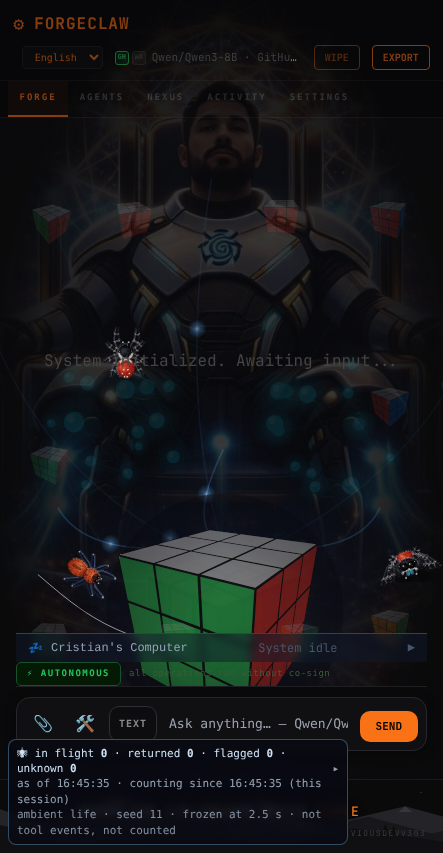
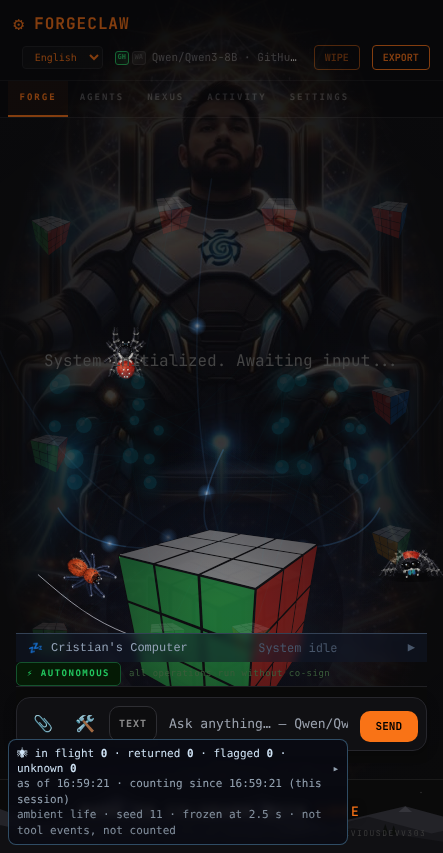
Spiderlings: head tilt, lean and crouch, like a real jumping spider (owner, 2026-11-04)
- The head turns on its own at the neck (body cache split: abdomen and cephalothorax drawn apart; palps turn with the head): it holds
  an angle and snaps to the next within ~90 ms (scanHead), forward while travelling. Both views.
- Lean: the weight shifts side to side (leanAt); near legs fold, far legs reach, feet stay planted (front view), body offset (top view).
- Crouch: a deep gather before every jump (the half second before takeoff), a watching crouch in about two of five stretches; outbound
  event spiders stalk crouched and scan with their heads in each freeze.
- All seeded and pure; +4 tests (snap scan, lean bounds both ways, pre-jump gather with head forward, watching crouch).
Browser 23/23 at both viewports; vitest 2586 passed / 0 failed; tsc 0. Pose sheet docs/spiderlings/v4-poses-head-lean-crouch.png.

Claude-Session: https://claude.ai/code/session_01XGcLrW98M2TRD6TJtMaNzi

diff --git a/src/components/spiderRender.ts b/src/components/spiderRender.ts
@@ -86,7 +86,7 @@ function furEllipse(b: Buckets, seed: number, cx: number, cy: number, rx: number
 }
 
 // ---- static body (cached) -------------------------------------------------------------------------------------------------------
-interface BodyCache { draw: (ctx: CanvasRenderingContext2D, glint: string) => void }
+interface BodyCache { draw: (ctx: CanvasRenderingContext2D, glint: string, headTurn: number) => void }
 const bodyCache = new Map<string, BodyCache>()
 
 /** Abdomen behind (−x), cephalothorax in front; both centred on the spider's own axis, size s = body length. */
@@ -96,11 +96,12 @@ function body(morph: Morph, s: number): BodyCache {
   const P = PAL[morph]
   const AX = -s * 0.5, ARX = s * 0.44, ARY = s * 0.34 // abdomen
   const CX = s * 0.16, CRX = s * 0.34, CRY = s * 0.3 // cephalothorax
-  const abdFur: Buckets = new Map(), cephFur: Buckets = new Map(), marks: Buckets = new Map(), rimFur: Buckets = new Map()
+  // abdomen and cephalothorax are kept apart so the head can turn on its own (a jumping spider's head tilt)
+  const abdFur: Buckets = new Map(), cephFur: Buckets = new Map(), marks: Buckets = new Map(), cephMarks: Buckets = new Map(), rimFur: Buckets = new Map(), cephRim: Buckets = new Map()
   furEllipse(abdFur, 11, AX, 0, ARX, ARY, s, 170, 0, P.abdHair, P.rim)
   furEllipse(rimFur, 13, AX, 0, ARX, ARY, s, 0, 70, P.abdHair, P.rim)
   furEllipse(cephFur, 21, CX, 0, CRX, CRY, s, 130, 0, P.cephHair, P.rim)
-  furEllipse(rimFur, 23, CX, 0, CRX, CRY, s, 0, 56, P.cephHair, P.rim)
+  furEllipse(cephRim, 23, CX, 0, CRX, CRY, s, 0, 56, P.cephHair, P.rim)
   const dense = Math.min(5, Math.max(1, s / 40))
   if (morph !== 'red') {
     // the fuzzy white band across the abdomen's front, and the white spots (each a tuft of strands)
@@ -121,10 +122,10 @@ function body(morph: Morph, s: number): BodyCache {
       const side = j % 2 ? 1 : -1, u = hh(51, j), a = side * (Math.PI * 0.55 + u * Math.PI * 0.35)
       const x = CX + Math.cos(a) * CRX * 0.9, y = Math.sin(a) * CRY * 0.9, len = s * (0.03 + hh(52, j) * 0.03)
       const d = a + Math.PI + (hh(53, j) - 0.5) * 0.7
-      strand(marks, css(P.mark, 0.88), x, y, Math.cos(d) * len, Math.sin(d) * len)
+      strand(cephMarks, css(P.mark, 0.88), x, y, Math.cos(d) * len, Math.sin(d) * len)
     }
   }
-  const draw = (ctx: CanvasRenderingContext2D, glint: string) => {
+  const draw = (ctx: CanvasRenderingContext2D, glint: string, headTurn: number) => {
     // abdomen: shaded round
     const ag = ctx.createRadialGradient(AX + s * 0.08, -s * 0.12, s * 0.03, AX, 0, ARX * 1.05)
     ag.addColorStop(0, css(P.abdHi)); ag.addColorStop(0.45, css(P.abd)); ag.addColorStop(1, css(P.abdLo))
@@ -137,6 +138,10 @@ function body(morph: Morph, s: number): BodyCache {
       for (const [sx, sy] of [[-0.56, -0.08], [-0.56, 0.08], [-0.72, -0.13], [-0.72, 0.13], [-0.85, -0.05], [-0.85, 0.05]] as const) { ctx.beginPath(); ctx.ellipse(s * sx, s * sy, s * 0.03, s * 0.022, 0, 0, Math.PI * 2); ctx.fill() }
     }
     strokeBuckets(ctx, abdFur, Math.max(0.35, s * 0.0045))
+    strokeBuckets(ctx, marks, Math.max(0.4, s * 0.0055))
+    strokeBuckets(ctx, rimFur, Math.max(0.35, s * 0.0045))
+    // the head turns on the pedicel, independent of the body
+    ctx.save(); const px = CX - CRX * 0.8; ctx.translate(px, 0); ctx.rotate(headTurn); ctx.translate(-px, 0)
     // cephalothorax: velvet, shaded
     const cg = ctx.createRadialGradient(CX + s * 0.05, -s * 0.1, s * 0.02, CX, 0, CRX * 1.05)
     cg.addColorStop(0, css(P.cephHi)); cg.addColorStop(0.5, css(P.ceph)); cg.addColorStop(1, css(P.cephLo))
@@ -147,8 +152,8 @@ function body(morph: Morph, s: number): BodyCache {
       ctx.beginPath(); ctx.ellipse(CX, 0, CRX * 0.86, CRY * 0.86, 0, Math.PI * 0.55, Math.PI * 1.45); ctx.stroke(); ctx.restore()
     }
     strokeBuckets(ctx, cephFur, Math.max(0.35, s * 0.0045))
-    strokeBuckets(ctx, marks, Math.max(0.4, s * 0.0055))
-    strokeBuckets(ctx, rimFur, Math.max(0.35, s * 0.0045))
+    strokeBuckets(ctx, cephMarks, Math.max(0.4, s * 0.0055))
+    strokeBuckets(ctx, cephRim, Math.max(0.35, s * 0.0045))
     // eyes along the front edge, seen from above: two big anterior medians, laterals at the corners, posteriors behind
     const eye = (ex: number, ey: number, r: number) => {
       const g = ctx.createRadialGradient(ex + r * 0.25, ey - r * 0.25, r * 0.05, ex, ey, r)
@@ -165,6 +170,7 @@ function body(morph: Morph, s: number): BodyCache {
       ig.addColorStop(0, 'rgb(34,96,170)'); ig.addColorStop(0.5, 'rgb(52,170,150)'); ig.addColorStop(1, 'rgb(36,74,170)')
       ctx.fillStyle = ig; ctx.globalAlpha *= 0.55; ctx.beginPath(); ctx.ellipse(CX + s * 0.33, -s * 0.045, s * 0.028, s * 0.024, 0, 0, Math.PI * 2); ctx.ellipse(CX + s * 0.33, s * 0.045, s * 0.028, s * 0.024, 0, 0, Math.PI * 2); ctx.fill(); ctx.globalAlpha /= 0.55
     }
+    ctx.restore()
   }
   const out = { draw }
   if (bodyCache.size > 64) bodyCache.clear()
@@ -226,6 +232,12 @@ export interface RenderLook {
   tilt?: number
   /** What it stands on: the contact shadow conforms (flat on the floor; offset and tight on a vertical face). */
   surface?: 'floor' | 'chair' | 'wall'
+  /** The head turned on its own, relative to the body (radians, small): the jumping spider's head tilt. */
+  headTurn?: number
+  /** Weight shifted to one side, -1..1: the legs on that side flex, the far side extends, the feet stay planted. */
+  lean?: number
+  /** 0..1: sunk low, legs gathered, knees high — before a jump, or watching. */
+  crouch?: number
 }
 /** A contact shadow that lies on the surface under it: a wide flat pool on the floor, a tight offset shape on a vertical face. */
 function contactShadow(ctx: CanvasRenderingContext2D, s: number, surface: RenderLook['surface'], cx: number, cy: number) {
@@ -243,7 +255,8 @@ function contactShadow(ctx: CanvasRenderingContext2D, s: number, surface: Render
  */
 export function renderJumperTop(ctx: CanvasRenderingContext2D, s: number, look: RenderLook) {
   const morph = look.morph ?? 'carneus', P = PAL[morph]
-  const pitch = look.pitch ?? 0, squash = look.squash ?? 0
+  const pitch = look.pitch ?? 0, squash = look.squash ?? 0, lean = look.lean ?? 0, crouch = look.crouch ?? 0, headTurn = look.headTurn ?? 0
+  const shift = lean * s * 0.13 // the body's weight moves toward the side it leans to
   contactShadow(ctx, s, look.surface, -s * 0.15, s * 0.05)
   ctx.save()
   // climbing: foreshortened along its length; landing: squashed flat and wide; breathing: the faintest swell
@@ -253,10 +266,12 @@ export function renderJumperTop(ctx: CanvasRenderingContext2D, s: number, look: 
   // legs, rear pair first so the front pair sits on top
   for (const i of [3, 2, 1, 0]) for (const side of [-1, 1]) {
     const phase = look.moving ? Math.sin(look.gait * 1.6 + (i % 2 ? Math.PI : 0) + (side > 0 ? Math.PI : 0)) : 0
-    const rootX = s * [0.28, 0.17, 0.06, -0.04][i], rootY = side * s * 0.2
+    const rootX = s * [0.28, 0.17, 0.06, -0.04][i], rootY = side * s * 0.2 + shift
+    // leaning: the near legs fold, the far legs reach; crouching: every leg gathers wider and lower
+    const flex = (1 - 0.38 * Math.max(0, lean * side) + 0.22 * Math.max(0, -lean * side)) * (1 + 0.32 * crouch)
     // climbing: pair I swings forward to reach over the edge, pair IV back to push; landing: every leg splays to take the load
     const ang = [0.62, 1.05, 1.95, 2.45][i] + phase * 0.1 - (i === 0 ? pitch * 0.35 : i === 3 ? -pitch * 0.25 : 0) + squash * (i < 2 ? 0.12 : -0.12)
-    const femur = s * [0.3, 0.24, 0.24, 0.3][i] * (i === 0 ? 1 + pitch * 0.7 : i === 3 ? 1 + pitch * 0.3 : 1) // short from above: it points up out of the body
+    const femur = s * [0.3, 0.24, 0.24, 0.3][i] * (i === 0 ? 1 + pitch * 0.7 : i === 3 ? 1 + pitch * 0.3 : 1) * flex // short from above: it points up out of the body
     const tibia = s * [0.36, 0.28, 0.3, 0.38][i], tarsus = s * [0.16, 0.12, 0.13, 0.16][i]
     const kx = rootX + Math.cos(ang) * femur, ky = rootY + side * Math.sin(ang) * femur
     const a2 = ang + (i < 2 ? -0.22 : 0.18) - (i === 0 ? 0.18 : 0)
@@ -279,11 +294,15 @@ export function renderJumperTop(ctx: CanvasRenderingContext2D, s: number, look: 
   strokeBuckets(ctx, hair, Math.max(0.35, s * 0.0045))
   // palps: short, furry, pale-tipped; always a slow wave, faster when it grooms
   const tw = look.groom ? Math.sin(look.gait * 2) * s * 0.03 : Math.sin(look.gait * 0.6) * s * 0.012
+  ctx.save(); ctx.translate(0, shift); ctx.scale(1 - crouch * 0.09, 1 - crouch * 0.09) // sunk low between the gathered legs
+  ctx.save(); ctx.translate(-s * 0.112, 0); ctx.rotate(headTurn); ctx.translate(s * 0.112, 0) // the palps turn with the head
   for (const side of [-1, 1]) {
     limb(ctx, P, s * 0.42, side * s * 0.1, s * 0.56, side * s * 0.12 + tw * side, s * 0.07, s * 0.08)
     ctx.fillStyle = css(P.legHair[2], 0.9); ctx.beginPath(); ctx.arc(s * 0.57, side * s * 0.12 + tw * side, s * 0.035, 0, Math.PI * 2); ctx.fill()
   }
-  body(morph, s).draw(ctx, look.glint ?? 'rgba(255,255,255,0.9)')
+  ctx.restore()
+  body(morph, s).draw(ctx, look.glint ?? 'rgba(255,255,255,0.9)', headTurn)
+  ctx.restore()
   ctx.restore()
 }
 
@@ -299,10 +318,13 @@ export function renderJumperFront(ctx: CanvasRenderingContext2D, s: number, look
   const sg = ctx.createRadialGradient(0, 0, s * 0.1, 0, 0, s * 1.1)
   sg.addColorStop(0, 'rgba(0,0,0,0.5)'); sg.addColorStop(1, 'rgba(0,0,0,0)')
   ctx.fillStyle = sg; ctx.beginPath(); ctx.ellipse(0, 0, s * 1.1, s * 0.2, 0, 0, Math.PI * 2); ctx.fill()
+  const crouch = look.crouch ?? 0, lean = look.lean ?? 0
+  const turn = (look.tilt ?? 0) + (look.headTurn ?? 0) // the head turns toward what it watches, on its own
+  const leanDx = lean * s * 0.17 // weight over one side
   ctx.save()
-  ctx.rotate(look.tilt ?? 0) // the head turns toward what it watches
   ctx.scale(1 + squash * 0.12, 1 - squash * 0.18) // a landing settles it low
-  const headY = -s * 0.36 + breathe
+  const headY = -s * 0.36 * (1 - crouch * 0.3) + breathe // a crouch sinks the body toward the ground
+  ctx.save(); ctx.translate(leanDx, 0)
   // abdomen behind, rising over the head
   const ab: Buckets = new Map()
   furEllipse(ab, 61, 0, headY - s * 0.3, s * 0.4, s * 0.24, s, 90, 40, P.abdHair, P.rim, 0.9, -Math.PI / 2)
@@ -310,16 +332,20 @@ export function renderJumperFront(ctx: CanvasRenderingContext2D, s: number, look
   ag.addColorStop(0, css(P.abdHi)); ag.addColorStop(0.5, css(P.abd)); ag.addColorStop(1, css(P.abdLo))
   ctx.fillStyle = ag; ctx.beginPath(); ctx.ellipse(0, headY - s * 0.3, s * 0.4, s * 0.24, 0, 0, Math.PI * 2); ctx.fill()
   strokeBuckets(ctx, ab, Math.max(0.35, s * 0.0045))
-  // legs: knee high, foot on the ground further out; pair I raised in front
+  ctx.restore()
+  // legs: knee high, foot on the ground further out; pair I raised in front; the feet stay planted when it leans
   const hair: Buckets = new Map()
   for (const i of [3, 2, 1, 0]) for (const side of [-1, 1]) {
-    const root = { x: side * s * (0.24 + i * 0.03), y: headY + s * (-0.02 + i * 0.07) }
-    const rise = [65, 58, 52, 46][i] * Math.PI / 180 // the femur's angle above the ground
+    const root0 = { x: side * s * (0.24 + i * 0.03), y: headY + s * (-0.02 + i * 0.07) }
+    const rise = ([65, 58, 52, 46][i] + crouch * 10) * Math.PI / 180 // the femur's angle above the ground; a crouch raises the knees
     const femur = s * [0.4, 0.42, 0.46, 0.5][i]
-    const knee = { x: root.x + side * Math.cos(rise) * femur, y: root.y - Math.sin(rise) * femur }
+    const knee0 = { x: root0.x + side * Math.cos(rise) * femur, y: root0.y - Math.sin(rise) * femur }
+    const root = { x: root0.x + leanDx, y: root0.y }
+    const near = lean * side > 0 // leaning toward this side: its legs fold (knee up), the far side extends (knee down)
+    const knee = { x: knee0.x + leanDx * 0.5, y: knee0.y + (near ? -1 : 1) * Math.abs(lean) * s * 0.06 }
     const foot = i === 0
       ? { x: knee.x + side * s * 0.08, y: knee.y - s * 0.12 } // pair I held up and forward
-      : { x: knee.x + side * s * (0.1 + i * 0.1), y: -s * 0.02 }
+      : { x: knee0.x + side * s * (0.1 + i * 0.1), y: -s * 0.02 } // planted: where it was before it leaned
     const tip = i === 0 ? { x: foot.x + side * s * 0.04, y: foot.y - s * 0.06 } : { x: foot.x + side * s * 0.05, y: 0 }
     const w = s * [0.2, 0.16, 0.16, 0.16][i]
     limb(ctx, P, root.x, root.y, knee.x, knee.y, w, w * 1.04)
@@ -332,7 +358,8 @@ export function renderJumperFront(ctx: CanvasRenderingContext2D, s: number, look
     limbHair(hair, P, seed + 40, knee.x, knee.y, foot.x, foot.y, w * 0.95, w * 0.6, s, 7, [0.55, 0.72])
   }
   strokeBuckets(ctx, hair, Math.max(0.35, s * 0.0045))
-  // the face
+  // the face: leaned with the body, and turned on its own
+  ctx.save(); ctx.translate(leanDx, headY); ctx.rotate(turn); ctx.translate(0, -headY)
   const face: Buckets = new Map()
   furEllipse(face, 71, 0, headY, s * 0.36, s * 0.3, s, 120, 60, P.cephHair, P.rim, 0.9, Math.PI / 2)
   const hg = ctx.createRadialGradient(-s * 0.08, headY - s * 0.12, s * 0.02, 0, headY, s * 0.4)
@@ -373,5 +400,6 @@ export function renderJumperFront(ctx: CanvasRenderingContext2D, s: number, look
       ctx.fillStyle = css(P.legHair[2], 0.9); ctx.beginPath(); ctx.arc(side * s * 0.2, headY + s * 0.35 + tw * side, s * 0.035, 0, Math.PI * 2); ctx.fill()
     }
   }
+  ctx.restore()
   ctx.restore()
 }

diff --git a/src/components/spiderAmbient.ts b/src/components/spiderAmbient.ts
@@ -74,7 +74,7 @@ function steps(seed: number, actor: number, nodes: readonly Pt[], epoch: number)
   return list
 }
 
-export interface AmbientSpider { id: string; kind: 'hopper' | 'climber'; x: number; y: number; heading: number; lift: number; moving: boolean; groom: boolean; action: string; /** Takeoff crouch and landing compression, 0..1. */ squash: number }
+export interface AmbientSpider { id: string; kind: 'hopper' | 'climber'; x: number; y: number; heading: number; lift: number; moving: boolean; groom: boolean; action: string; /** Takeoff crouch and landing compression, 0..1. */ squash: number; /** Head turned on its own (radians). */ headTurn: number; /** Weight to one side, -1..1. */ lean: number; /** Sunk low, 0..1. */ crouch: number }
 export interface Silk { pts: Pt[]; alpha: number }
 export interface AmbientScene { spiders: AmbientSpider[]; silk: Silk[] }
 
@@ -98,6 +98,26 @@ export function webSegments(c: Pt, seed: number, epoch: number): Pt[][] {
   return segs
 }
 
+/**
+ * The head scan of a watching jumping spider: it holds an angle, then SNAPS to the next (90 ms), never a slow sweep. Pure in
+ * (seed, key, t). Exported so the event spiders scan the same way when they freeze.
+ */
+export function scanHead(seed: number, key: number, t: number, range = 0.7): number {
+  const STEP = 650, step = Math.floor(t / STEP), into = t - step * STEP
+  const at = (k: number) => (rnd(seed, key * 97 + 1, k) - 0.5) * range
+  return at(step - 1) + (at(step) - at(step - 1)) * ease(into / 90)
+}
+/** A slow shift of weight from side to side (-0.7..0.7), easing over 400 ms between holds. Pure. */
+export function leanAt(seed: number, key: number, t: number): number {
+  const STEP = 2300, step = Math.floor(t / STEP), into = t - step * STEP
+  const at = (k: number) => (rnd(seed, key * 53 + 2, k) - 0.5) * 1.4
+  return at(step - 1) + (at(step) - at(step - 1)) * ease(into / 400)
+}
+/** Whether it is sitting in a watching crouch over this stretch (about two in five stretches). Pure. */
+function watchCrouch(seed: number, key: number, t: number): number {
+  return rnd(seed, key * 7 + 3, Math.floor(t / 2300)) < 0.4 ? 0.35 : 0
+}
+
 function hopper(seed: number, actor: number, nodes: readonly Pt[], t: number, scene: AmbientScene) {
   const epoch = Math.max(0, Math.floor(t / EPOCH_MS)), o = t - epoch * EPOCH_MS
   const list = steps(seed, actor, nodes, epoch)
@@ -109,15 +129,16 @@ function hopper(seed: number, actor: number, nodes: readonly Pt[], t: number, sc
     if (fade > 0 && p.action === 'hop') scene.silk.push({ pts: sagLine(nodes[p.node], nodes[p.to]), alpha: 0.75 * fade })
     if (fade > 0 && p.action === 'web') for (const seg of webSegments(nodes[p.node], seed, epoch - 1)) scene.silk.push({ pts: seg, alpha: 0.7 * fade })
   }
-  const base: AmbientSpider = { id, kind: 'hopper', x: here.x, y: here.y, heading: rnd(seed, actor * 13 + 7, epoch) * Math.PI * 2, lift: 0, moving: false, groom: false, action: s.action, squash: 0 }
+  const base: AmbientSpider = { id, kind: 'hopper', x: here.x, y: here.y, heading: rnd(seed, actor * 13 + 7, epoch) * Math.PI * 2, lift: 0, moving: false, groom: false, action: s.action, squash: 0, headTurn: scanHead(seed, actor, t), lean: leanAt(seed, actor, t), crouch: watchCrouch(seed, actor, t) }
   if (s.action === 'groom') base.groom = true
   if (s.action === 'hop') {
     const start = 600 + rnd(seed, actor * 17 + 9, epoch) * 2600, to = nodes[s.to], dist = Math.hypot(to.x - here.x, to.y - here.y)
-    if (o < start) { scene.spiders.push({ ...base, heading: Math.atan2(to.y - here.y, to.x - here.x), squash: o > start - 180 ? ((o - (start - 180)) / 180) * 0.6 : 0 }); return } // the crouch before it commits
+    const gather = o > start - 500 ? ease((o - (start - 500)) / 500) : 0 // it sinks and gathers before it commits
+    if (o < start) { scene.spiders.push({ ...base, heading: Math.atan2(to.y - here.y, to.x - here.x), squash: o > start - 180 ? ((o - (start - 180)) / 180) * 0.6 : 0, crouch: Math.max(base.crouch, gather), headTurn: base.headTurn * (1 - gather), lean: base.lean * (1 - gather) }); return }
     const u = Math.min(1, (o - start) / HOP_MS), p = lerp(here, to, ease(u)), heading = Math.atan2(to.y - here.y, to.x - here.x)
     const fresh = o - start
     scene.silk.push({ pts: sagLine(here, to), alpha: Math.min(0.85, fresh / 200) * (1 - ease((o - start - 2500) / 4000)) })
-    if (u < 1) { scene.spiders.push({ ...base, x: p.x, y: p.y, heading, lift: Math.sin(Math.PI * u) * (22 + dist * 0.1), moving: true }); return }
+    if (u < 1) { scene.spiders.push({ ...base, x: p.x, y: p.y, heading, lift: Math.sin(Math.PI * u) * (22 + dist * 0.1), moving: true, headTurn: 0, lean: 0, crouch: 0 }); return }
     const landed = o - start - HOP_MS // legs absorb the impact, the body squashes and settles
     scene.spiders.push({ ...base, x: to.x, y: to.y, heading, squash: landed < 320 ? 1 - ease(landed / 320) : 0 })
     return
@@ -154,7 +175,7 @@ function climber(seed: number, t: number, scene: AmbientScene) {
     scene.silk.push({ pts: sagLine(before, after, 0.02, 4), alpha: 0.85 * (1 - ease((o - slipAt - 800) / 1800)) })
   }
   const slipping = slips && o >= slipAt && o < slipAt + SLIP_MS
-  scene.spiders.push({ id: 'climber', kind: 'climber', x: pos.x, y: pos.y, heading: slipping ? heading + 0.5 : heading, lift: 0, moving: moving && !slipping, groom: false, action: slipping ? 'slip' : moving ? (heading < 0 ? 'climb' : 'descend') : 'rest', squash: 0 })
+  scene.spiders.push({ id: 'climber', kind: 'climber', x: pos.x, y: pos.y, heading: slipping ? heading + 0.5 : heading, lift: 0, moving: moving && !slipping, groom: false, action: slipping ? 'slip' : moving ? (heading < 0 ? 'climb' : 'descend') : 'rest', squash: 0, headTurn: moving ? 0 : scanHead(seed, 9, t, 0.5), lean: 0, crouch: 0 })
 }
 
 /** How long the escape reflex lasts: drop on the dragline, hang motionless, then a cautious climb back. */
@@ -182,7 +203,7 @@ export function ambientScene(seed: number, tMs: number, nodes: readonly Pt[] = A
   const scene: AmbientScene = { spiders: [], silk: [] }
   for (const sp of at.spiders) {
     const anchor = { x: sp.x, y: sp.y }, depth = (sp.kind === 'climber' ? 0.6 : 1) * ESCAPE_DROP * drop
-    scene.spiders.push({ ...sp, y: sp.y + depth, lift: 0, moving: since >= 4500, groom: false, action: 'escape', squash: 0, heading: -Math.PI / 2 })
+    scene.spiders.push({ ...sp, y: sp.y + depth, lift: 0, moving: since >= 4500, groom: false, action: 'escape', squash: 0, heading: -Math.PI / 2, headTurn: 0, lean: 0, crouch: 0 })
     scene.silk.push({ pts: [anchor, { x: sp.x, y: sp.y + depth }], alpha: 0.85 })
   }
   return scene

diff --git a/src/components/spiderDraw.ts b/src/components/spiderDraw.ts
@@ -12,7 +12,7 @@
  * Silk is not a neural line: thin, pale, slight sag, drawn with normal compositing (no glow, no pulse, no travelling light).
  */
 import { isStale, type SpiderChannel, type SpiderRun } from '../lib/spiderlings'
-import type { AmbientScene } from './spiderAmbient'
+import { leanAt, scanHead, type AmbientScene } from './spiderAmbient'
 import { renderJumperFront, renderJumperTop, type Morph } from './spiderRender'
 import { CHEST, poseOf, type AnchorSet, type Pose, type PoseTone, type Pt, type Surface } from './spiderRoutes'
 
@@ -39,6 +39,9 @@ export interface SpiderLook {
   glint?: string
   /** Front view: the head turned toward what it watches. */
   tilt?: number
+  headTurn?: number
+  lean?: number
+  crouch?: number
 }
 
 /** A jumping spider at (x, y) on the ground, facing `heading`, `size` px long, seen from above (renderer: spiderRender.ts). */
@@ -56,7 +59,7 @@ export function drawSpider(ctx: CanvasRenderingContext2D, x: number, y: number, 
     ctx.fillStyle = g; ctx.beginPath(); ctx.arc(x, y - lift, s * 1.6, 0, Math.PI * 2); ctx.fill()
   }
   ctx.translate(x, y - lift); ctx.rotate(heading)
-  renderJumperTop(ctx, s, { gait: look.gait, moving: look.moving, groom: look.groom, morph: unknown ? 'ghost' : look.morph, pitch: look.pitch, squash: look.squash, surface: look.surface, glint: look.glint })
+  renderJumperTop(ctx, s, { gait: look.gait, moving: look.moving, groom: look.groom, morph: unknown ? 'ghost' : look.morph, pitch: look.pitch, squash: look.squash, surface: look.surface, glint: look.glint, headTurn: look.headTurn, lean: look.lean, crouch: look.crouch })
   ctx.restore()
 }
 
@@ -69,7 +72,7 @@ export function drawSpiderFront(ctx: CanvasRenderingContext2D, x: number, y: num
     g.addColorStop(0, rgba(c, 0.4)); g.addColorStop(1, rgba(c, 0)); ctx.fillStyle = g; ctx.beginPath(); ctx.arc(x, y - size * 0.4, size * 1.5, 0, Math.PI * 2); ctx.fill()
   }
   ctx.translate(x, y)
-  renderJumperFront(ctx, size, { gait: look.gait, moving: false, groom: look.groom, morph: unknown ? 'ghost' : look.morph, squash: look.squash, glint: look.glint, tilt: look.tilt })
+  renderJumperFront(ctx, size, { gait: look.gait, moving: false, groom: look.groom, morph: unknown ? 'ghost' : look.morph, squash: look.squash, glint: look.glint, tilt: look.tilt, headTurn: look.headTurn, lean: look.lean, crouch: look.crouch })
   ctx.restore()
 }
 
@@ -118,7 +121,7 @@ export function drawSpiders(ctx: CanvasRenderingContext2D, runs: readonly Spider
       const a = pose.progress * Math.PI * 2, orbit = 15 * k
       ctx.save(); ctx.globalCompositeOperation = 'lighter'; ctx.strokeStyle = rgba(TONE.work, 0.25 + 0.2 * Math.sin(a)); ctx.lineWidth = Math.max(1, 1.5 * k)
       ctx.beginPath(); ctx.arc(q.x, q.y, (16 + 4 * Math.sin(a)) * k, 0, Math.PI * 2); ctx.stroke(); ctx.restore()
-      drawSpider(ctx, q.x + Math.cos(a) * orbit, q.y + Math.sin(a) * orbit * 0.6, a + Math.PI / 2, size, { tone: pose.tone, gait: t / 90, alpha: pose.alpha, moving: true, surface: pose.surface, glint })
+      drawSpider(ctx, q.x + Math.cos(a) * orbit, q.y + Math.sin(a) * orbit * 0.6, a + Math.PI / 2, size, { tone: pose.tone, gait: t / 90, alpha: pose.alpha, moving: true, surface: pose.surface, glint, headTurn: scanHead(7, run.startedAt % 983, now, 0.5) })
       continue
     }
     if (pose.phase === 'unknown') { // unknown: a dim spider, still, ringed by a dashed line that does not pulse
@@ -128,6 +131,9 @@ export function drawSpiders(ctx: CanvasRenderingContext2D, runs: readonly Spider
     // stalking is low and silent: no bob; a freeze stops the legs; a climb pitches the body
     drawSpider(ctx, q.x, q.y, pose.phase === 'dock' ? -Math.PI / 2 : pose.heading, pose.phase === 'dock' ? size * (1 - pose.progress * 0.5) : size, {
       tone: pose.tone, gait: t / (pose.tone === 'flag' ? 45 : 70), alpha: pose.alpha, moving: pose.moving, pitch: pose.pitch, surface: pose.surface, glint,
+      // the stalk is low; in a freeze it scans with its head and shifts its weight, as a watching jumping spider does
+      crouch: pose.phase === 'out' ? 0.45 : 0, headTurn: !pose.moving && pose.phase === 'out' ? scanHead(7, run.id.length + run.startedAt % 997, now) : 0,
+      lean: !pose.moving && pose.phase === 'out' ? leanAt(7, run.startedAt % 991, now) * 0.6 : 0,
     })
   }
   // Node tags: only for a channel with an unanswered run, so an idle painting carries no text at all.
@@ -152,7 +158,7 @@ export function drawAmbient(ctx: CanvasRenderingContext2D, scene: AmbientScene, 
     // attention: a resting spider turns its head toward what it is watching (the cursor if it moved lately, else the turning cube)
     const tilt = attend ? Math.max(-0.32, Math.min(0.32, (attend.x - sp.x) / 600)) : 0
     const surface: Surface = sp.kind === 'climber' ? 'wall' : 'floor'
-    const look: SpiderLook = { gait: t / 80, alpha: 0.97, moving: sp.moving, lift: sp.lift * k, groom: sp.groom, morph: sp.id === 'hopper-2' ? 'red' : 'carneus', squash: sp.squash, surface, glint, tilt, pitch: sp.kind === 'climber' && sp.moving ? 0.5 : 0 }
+    const look: SpiderLook = { gait: t / 80, alpha: 0.97, moving: sp.moving, lift: sp.lift * k, groom: sp.groom, morph: sp.id === 'hopper-2' ? 'red' : 'carneus', squash: sp.squash, surface, glint, tilt, pitch: sp.kind === 'climber' && sp.moving ? 0.5 : 0, headTurn: sp.headTurn, lean: sp.lean, crouch: sp.crouch }
     // At rest it turns to look back at the viewer (the face is what makes it a character); travelling, it is seen from above.
     if (!sp.moving && sp.lift <= 0 && (sp.action === 'idle' || sp.action === 'groom' || sp.action === 'rest')) drawSpiderFront(ctx, q.x, q.y, size * 1.15, look)
     else drawSpider(ctx, q.x, q.y, sp.heading, sp.kind === 'climber' ? size * 1.1 : size, look)

diff --git a/src/components/spiderAmbient.test.ts b/src/components/spiderAmbient.test.ts
@@ -1,7 +1,7 @@
 // @vitest-environment node
 import { readFileSync } from 'node:fs'
 import { describe, expect, it } from 'vitest'
-import { AMBIENT_NODES, DEFAULT_AMBIENT_SEED, EPOCH_MS, ESCAPE_MS, HOP_MS, WALL, ambientScene, ambientSignature, parseAmbientParams, rnd, sagLine, webSegments } from './spiderAmbient'
+import { AMBIENT_NODES, DEFAULT_AMBIENT_SEED, EPOCH_MS, ESCAPE_MS, HOP_MS, WALL, ambientScene, leanAt, scanHead, ambientSignature, parseAmbientParams, rnd, sagLine, webSegments } from './spiderAmbient'
 
 const SECONDS = (n: number) => n * 1000
 
@@ -119,7 +119,7 @@ describe('ambient never claims state', () => {
     expect(src).not.toMatch(/spiderlings|forgeOps|useSpiderlings|AgentEvent|SpiderLedger/)
   })
   it('the spiders it returns carry no tone, tool or run: nothing a counter could count', () => {
-    for (const s of ambientScene(11, 12_345).spiders) expect(Object.keys(s).sort()).toEqual(['action', 'groom', 'heading', 'id', 'kind', 'lift', 'moving', 'squash', 'x', 'y'])
+    for (const s of ambientScene(11, 12_345).spiders) expect(Object.keys(s).sort()).toEqual(['action', 'crouch', 'groom', 'headTurn', 'heading', 'id', 'kind', 'lean', 'lift', 'moving', 'squash', 'x', 'y'])
   })
 })
 
@@ -160,5 +160,34 @@ describe('realism and stealth (owner passes, 2026-11-04)', () => {
     expect(ambientScene(11, t0 + ESCAPE_MS + 10, AMBIENT_NODES, [t0]).spiders.some(s => s.action === 'escape')).toBe(false)
     expect(ambientSignature(ambientScene(11, t0 + 2000, AMBIENT_NODES, [t0]))).toBe(ambientSignature(hang))
     expect(ambientSignature(ambientScene(11, t0 - 10, AMBIENT_NODES, [t0]))).toBe(ambientSignature(ambientScene(11, t0 - 10))) // a future startle changes nothing
+  })
+})
+
+describe('head tilt, lean and crouch (owner, 2026-11-04: "everything realistic")', () => {
+  it('the head scans in snaps: it holds an angle, then turns to the next within ~90 ms, never a slow sweep', () => {
+    const at = (t: number) => scanHead(11, 1, t)
+    expect(at(650 * 4 + 200)).toBeCloseTo(at(650 * 4 + 600), 10) // held
+    expect(Math.abs(at(650 * 5 + 95) - at(650 * 5 - 5))).toBeGreaterThan(0) // snapped at the step
+    for (let t = 0; t < 60_000; t += 37) expect(Math.abs(at(t))).toBeLessThanOrEqual(0.35 + 1e-9)
+  })
+  it('the weight shifts side to side within bounds, and both ways over time', () => {
+    const vals = Array.from({ length: 200 }, (_, i) => leanAt(11, 1, i * 1000))
+    expect(Math.max(...vals)).toBeGreaterThan(0.2); expect(Math.min(...vals)).toBeLessThan(-0.2); expect(vals.every(v => Math.abs(v) <= 0.7)).toBe(true)
+  })
+  it('it gathers into a crouch before it jumps, and travels with its head forward and weight centred', () => {
+    for (let e = 0; e < 300; e++) {
+      const at = (o: number) => ambientScene(11, e * EPOCH_MS + o).spiders.find(s => s.id === 'hopper-1')!
+      if (at(100).action !== 'hop') continue
+      let first = -1; for (let o = 0; o < EPOCH_MS; o += 10) if (at(o).lift > 0) { first = o; break }
+      expect(at(first - 20).crouch).toBeGreaterThan(0.8)
+      expect([at(first + 100).headTurn, at(first + 100).lean]).toEqual([0, 0])
+      return
+    }
+    throw new Error('no hop found')
+  })
+  it('watching spiders sometimes sit in a crouch, and turn their heads', () => {
+    const idle = Array.from({ length: 400 }, (_, e) => ambientScene(11, e * EPOCH_MS + 3000).spiders.find(s => s.id === 'hopper-1')!).filter(s => s.action === 'idle')
+    expect(idle.some(s => s.crouch > 0)).toBe(true); expect(idle.some(s => s.crouch === 0)).toBe(true)
+    expect(new Set(idle.map(s => s.headTurn.toFixed(3))).size).toBeGreaterThan(10)
   })
 })

diff --git a/docs/display-layer/spiderlings/README.md b/docs/display-layer/spiderlings/README.md
@@ -45,7 +45,11 @@ catches itself on a line of silk, and comes back down. The scene is a pure funct
 - **Attention:** a resting spider turns its head toward the owner's pointer while it moves, otherwise toward the turning cube.
 - **Life at rest:** statue-still is the resting state (idle is weighted far above hopping); palps wave slowly, groom now and then; the
   abdomen breathes; eyeshine catchlights take the scene's light colour (the same tone as the cube and cables).
-- Pose sheet: `docs/spiderlings/v4-poses.png` (standing, climbing, landing, attending).
+- **Head tilt, lean, crouch (owner, 2026-11-04):** the head turns on its own at the neck, holding an angle and snapping to the next
+  (a jumping spider's scan), forward while it travels; the weight shifts side to side (near legs fold, far legs reach, feet planted);
+  it gathers into a deep crouch before every jump and sometimes sits in a watching crouch. Outbound event spiders stalk crouched and
+  scan with their heads in each freeze. All seeded and pure (`scanHead`, `leanAt`).
+- Pose sheets: `docs/spiderlings/v4-poses.png` (standing, climbing, landing, attending) and `v4-poses-head-lean-crouch.png`.
 - **Not built (said plainly):** leg-by-leg inverse kinematics over real ledge geometry (feet at different heights on the armrest and
   platform) and hiding behind a cube edge. The painting carries no depth map, so v4 classifies surfaces by region and pitches the body;
   per-foot terrain contact needs ledge geometry traced on the painting first.
